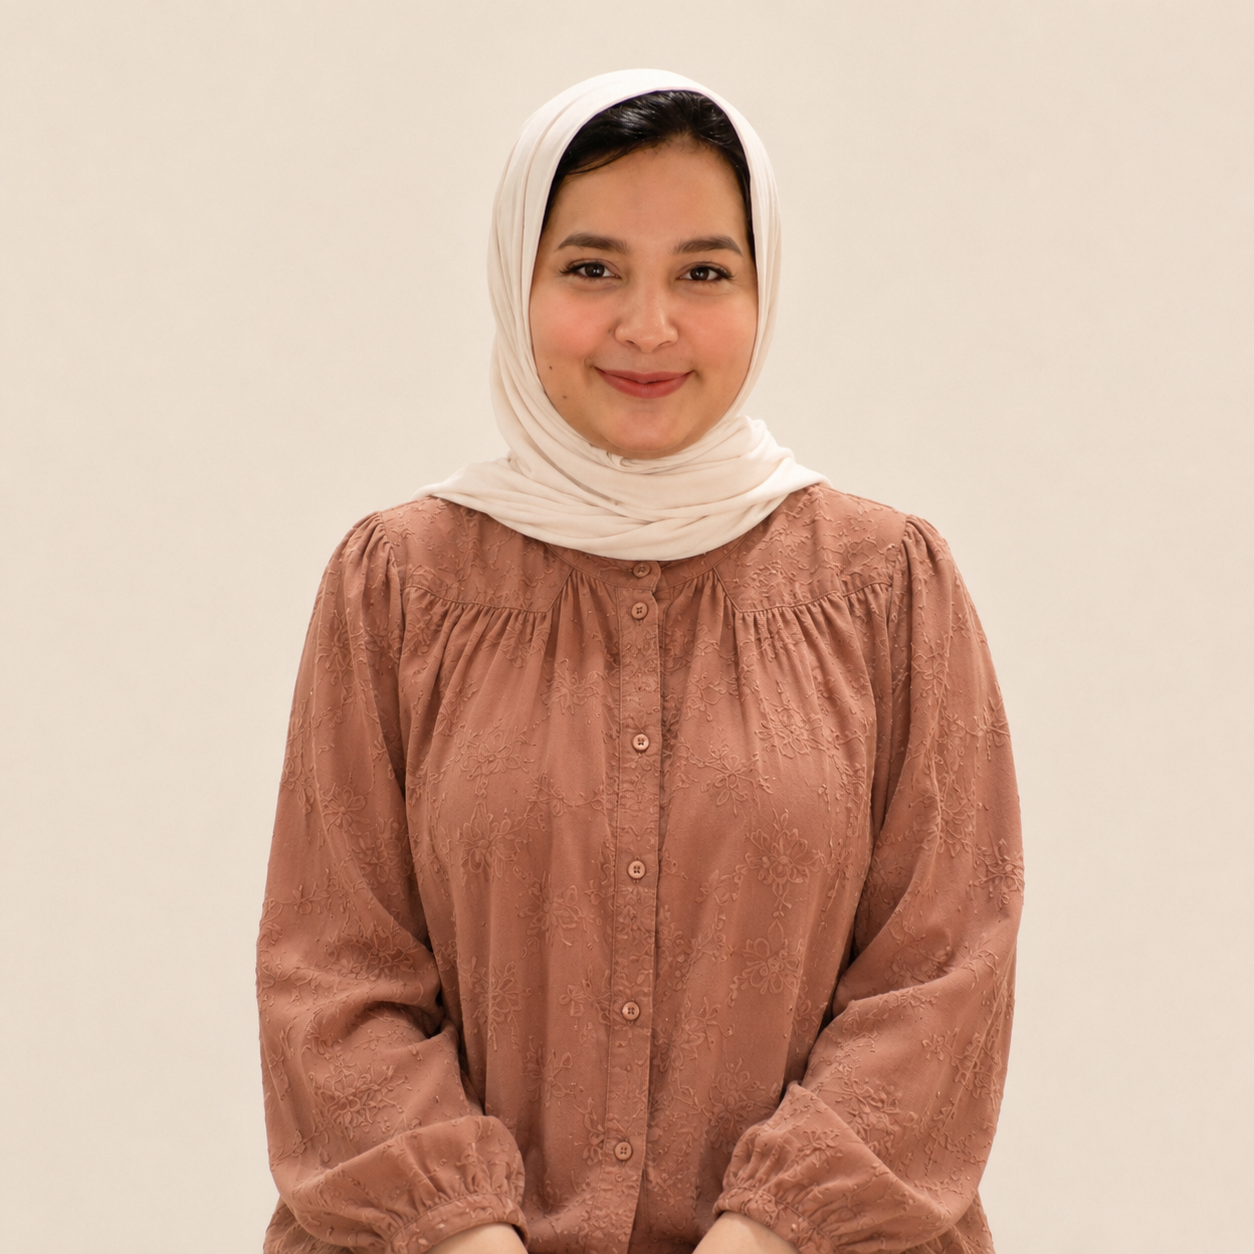
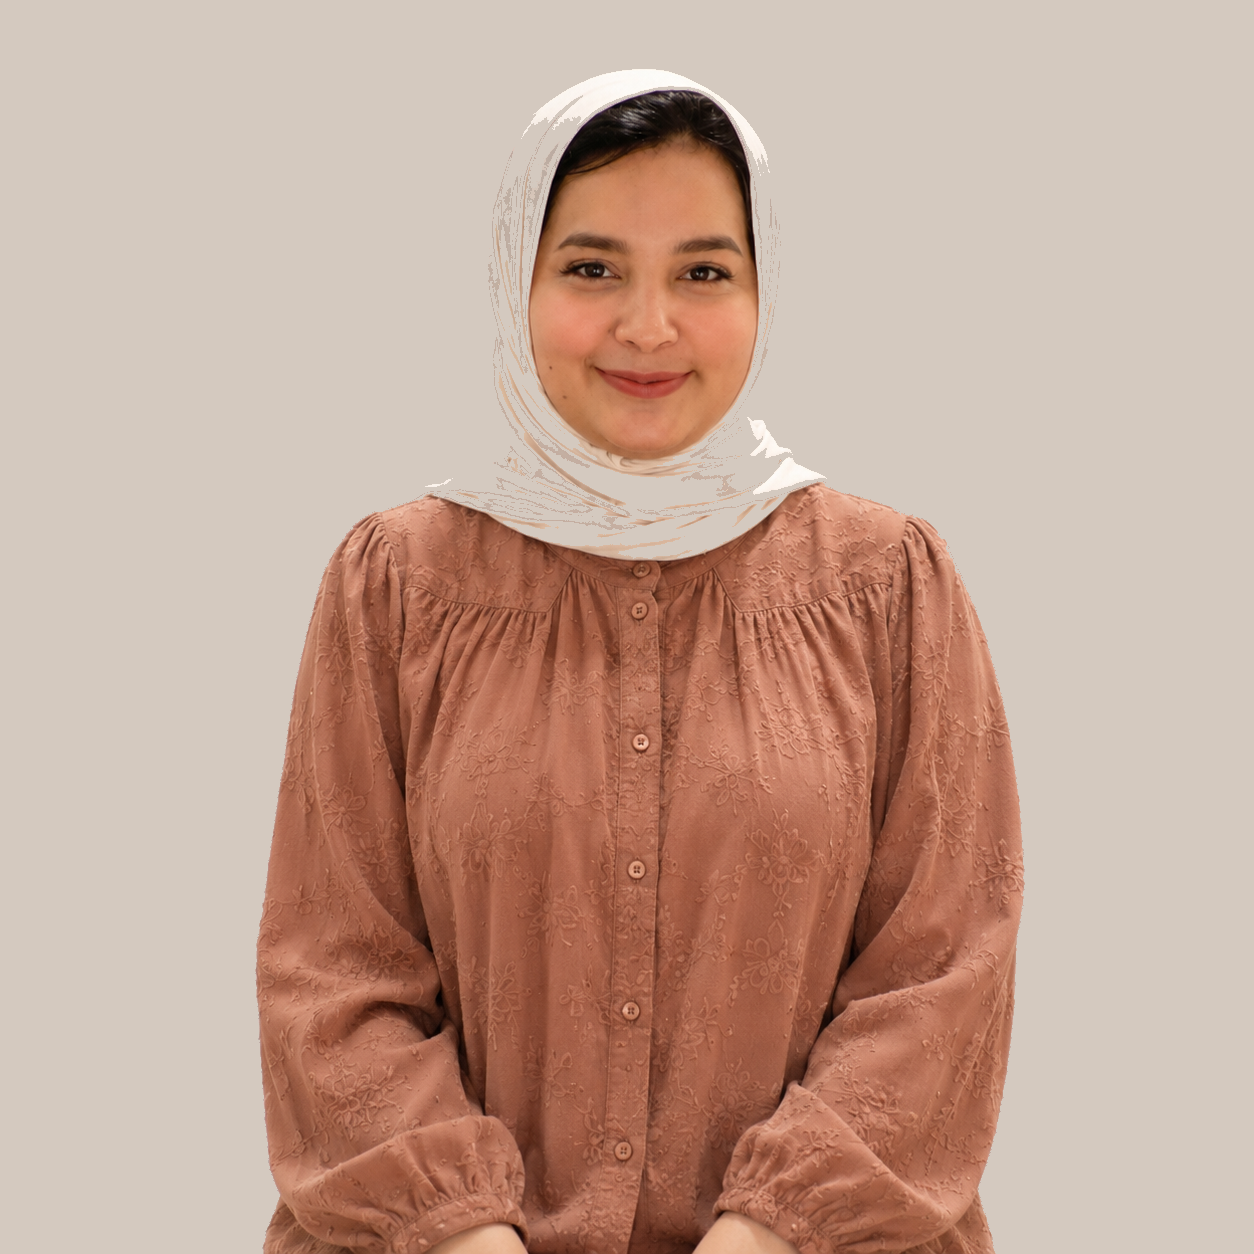
update avater background image

diff --git a/project-saleeq-albadia.html b/project-saleeq-albadia.html
@@ -345,7 +345,6 @@
         <div class="container">
             <span class="header-badge"><i class="fas fa-utensils"></i> Restaurant</span>
             <h1>Saleeq Albadia</h1>
-            <p>I created content for a restaurant serving Saleeg and Madghout, focusing on the dishes and the authentic taste of Saleeg in an attractive way.</p>
         </div>
     </header>
 

diff --git a/video-scripts.html b/video-scripts.html
@@ -345,7 +345,6 @@
         <div class="container">
             <span class="header-badge"><i class="fas fa-video"></i> Reels & Video Scripts</span>
             <h1>Video Scripts</h1>
-            <p>Every script starts with research, then a creative idea turns into an impactful scene. Watch the videos below to see the final results.</p>
         </div>
     </header>
 

diff --git a/project-delta-medical.html b/project-delta-medical.html
@@ -345,7 +345,6 @@
         <div class="container">
             <span class="header-badge"><i class="fas fa-bone"></i> Physiotherapy Center</span>
             <h1>Delta Medical</h1>
-            <p>I created content for Delta, focusing on pain and movement problems, and how physical therapy can help improve them.</p>
         </div>
     </header>
 

diff --git a/project-nascita.html b/project-nascita.html
@@ -345,7 +345,6 @@
         <div class="container">
             <span class="header-badge"><i class="fas fa-sparkles"></i> Beauty Brand</span>
             <h1>Nascita</h1>
-            <p>I created content for a beauty brand, focusing on product benefits and results to increase sales and encourage online orders.</p>
         </div>
     </header>
 

diff --git a/project-drinks-cafe.html b/project-drinks-cafe.html
@@ -345,7 +345,6 @@
         <div class="container">
             <span class="header-badge"><i class="fas fa-mug-hot"></i> Drive-Thru Coffee</span>
             <h1>Drinks Cafe</h1>
-            <p>The content focused on a drive-thru coffee shop, highlighting drinks, desserts, and easy ordering from the car.</p>
         </div>
     </header>
 

diff --git a/project-gouri.html b/project-gouri.html
@@ -345,7 +345,6 @@
         <div class="container">
             <span class="header-badge"><i class="fas fa-spa"></i> Beauty Center</span>
             <h1>Gouri</h1>
-            <p>I created content and a motion video script for Gouri Beauty Center, showing the product benefits and results in a clear way.</p>
         </div>
     </header>
 

diff --git a/project-quality-care-medical.html b/project-quality-care-medical.html
@@ -345,7 +345,6 @@
         <div class="container">
             <span class="header-badge"><i class="fas fa-heartbeat"></i> Medical Center</span>
             <h1>Quality Care Medical</h1>
-            <p>I focused on the problems customers face, then I showed how the center can help treat and solve them.</p>
         </div>
     </header>
 

diff --git a/project-sohob-alkayan.html b/project-sohob-alkayan.html
@@ -345,7 +345,6 @@
         <div class="container">
             <span class="header-badge"><i class="fas fa-elevator"></i> Elevators & Maintenance</span>
             <h1>Sohob Alkayan</h1>
-            <p>The campaign focused on elevator maintenance, emergency services, safety, and easy payment plans.</p>
         </div>
     </header>
 

diff --git a/project-wesaf-cafe.html b/project-wesaf-cafe.html
@@ -345,7 +345,6 @@
         <div class="container">
             <span class="header-badge"><i class="fas fa-coffee"></i> Cafe</span>
             <h1>Wesaf Cafe</h1>
-            <p>I focused on hot and cold drinks, tasty desserts, and the variety of the cafe menu, presented in an attractive way.</p>
         </div>
     </header>
 

diff --git a/certificates.html b/certificates.html
@@ -262,7 +262,6 @@
     <header class="page-header">
         <div class="container">
             <h1>My Certificates</h1>
-            <p>Reflecting expertise and continuous learning.</p>
         </div>
     </header>
 
